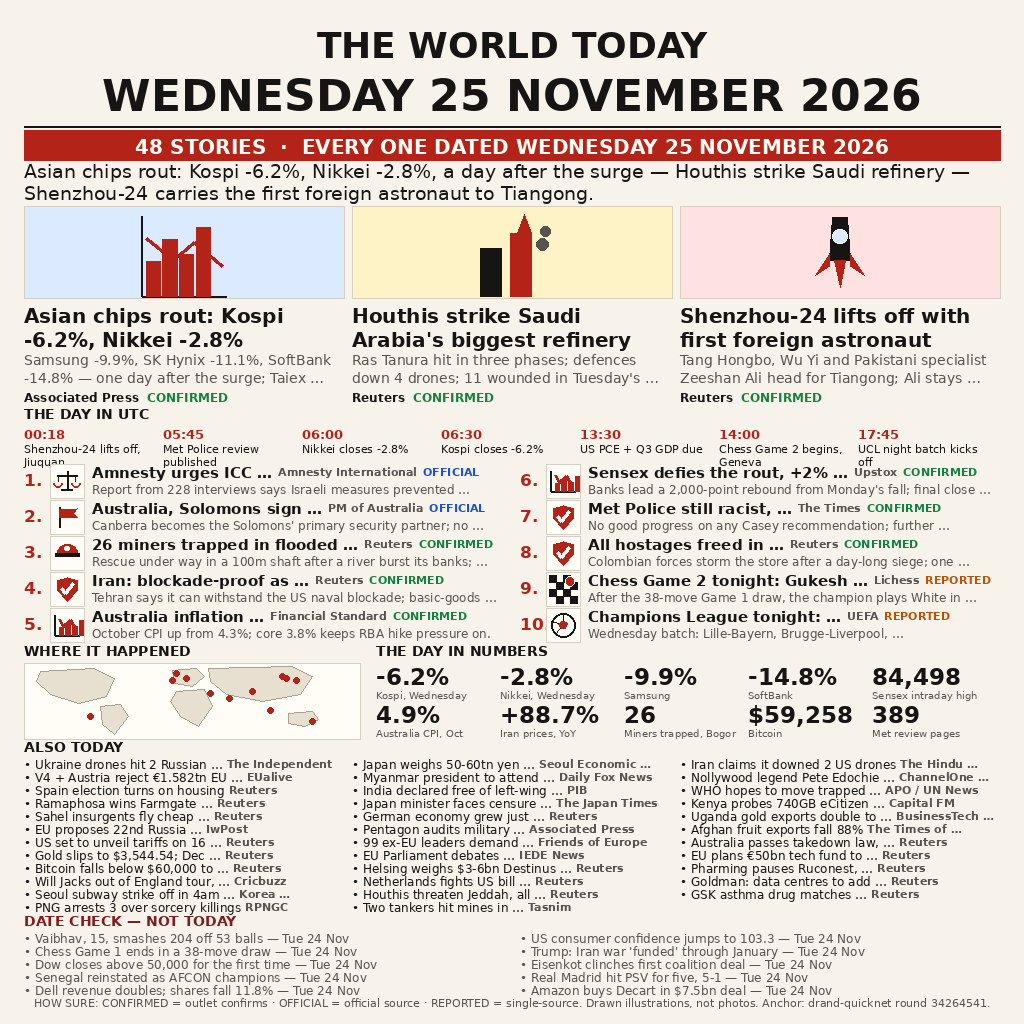
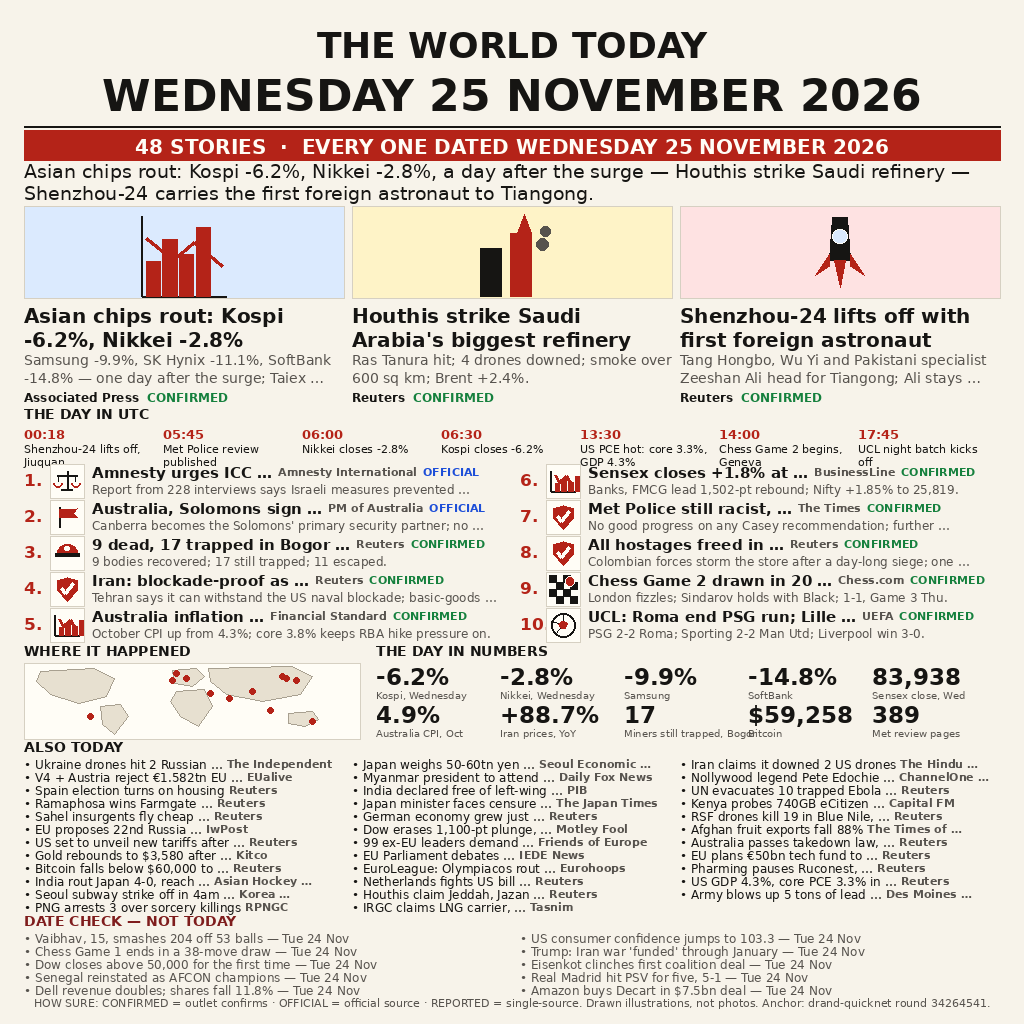
news-image-20261125 refresh: Ras Tanura hit + Brent +2.4%, Bogor 9 dead/17 trapped, Sensex close 83,938, Chess Game 2 drawn, UCL results in; 6 ALSO swapped, all 18 items confirmed

diff --git a/README.md b/README.md
@@ -1,0 +1,18 @@
+# The World Today — Wednesday 25 November 2026
+
+[![make.fun · news-image-20261125](https://make.fun/badge/news-image-20261125.svg)](https://make.fun/bounty/news-image-20261125?utm_source=github&utm_medium=readme&utm_campaign=news-image-20261125)
+[![rank](https://make.fun/badge/news-image-20261125/goodghost1/news-image-20261125-entry/rank.svg)](https://make.fun/bounty/news-image-20261125/leaderboard?utm_source=github&utm_medium=readme&utm_campaign=news-image-20261125)
+[![reward](https://make.fun/badge/news-image-20261125/goodghost1/news-image-20261125-entry/reward.svg)](https://make.fun/bounty/news-image-20261125?utm_source=github&utm_medium=readme&utm_campaign=news-image-20261125)
+
+A one-page newspaper front page for Wednesday 25 November 2026: 48 verified
+stories, every one dated that day. Three heroes lead the page — Asia's chip
+rout (Kospi -6.2%, Nikkei -2.8%), the Houthi strike on Ras Tanura, and
+Shenzhou-24 lifting off with the first foreign astronaut — followed by ten
+numbered stories, a "THE DAY IN UTC" timeline, a "WHERE IT HAPPENED" map, a
+"THE DAY IN NUMBERS" panel, and a DATE CHECK box listing news from the wrong
+day that was left out.
+
+`entry.png` (1024x1024) is rendered in advance by `gen.py` from
+`stories-20261125.json` and shipped in this repository. `main.py` only
+validates the shipped image and copies it to the output directory; it never
+draws, downloads, or regenerates anything.
